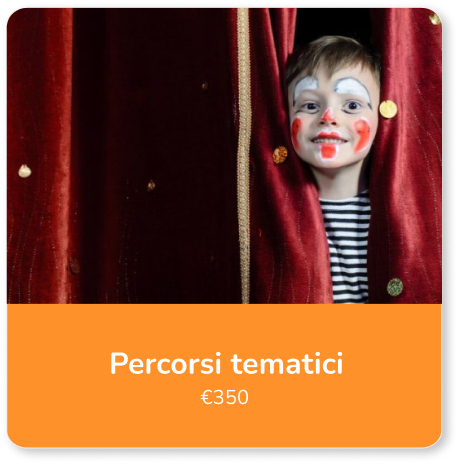
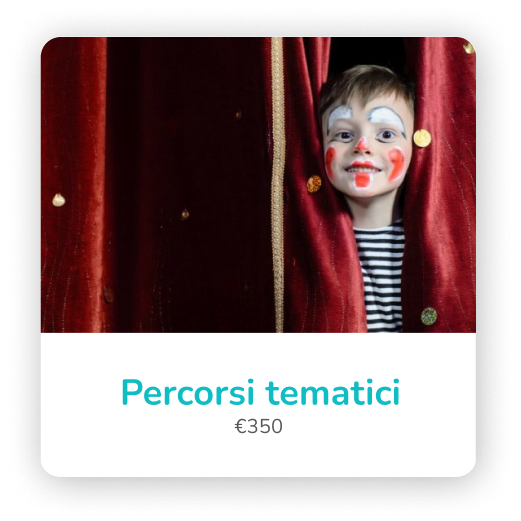
changes

diff --git a/index.html b/index.html
@@ -76,8 +76,8 @@
             delle scuole <br> elementari al mondo del teatro</h2>
             <br>
 
-          <h5>Sei un <a href="#teacher">insegnante</a>?</h5>
-          <h5>Sei un <a href="#actor">attore</a>?</h5>
+            <h5>Sei un <a href="#teacher">insegnante</a>?</h5>
+            <h5>Sei un <a href="#actor">attore</a>?</h5>
 
           <a href="percorsi.html" class="btn-get-started scrollto">Acquista un percorso</a>
         </div>
@@ -184,7 +184,7 @@
         <div class="parallax" id="parallax">
           <div class="row">
             <!-- ======= Immagine ======= -->
-            <div class="col-lg-6 order-1 order-lg-1" data-aos="fade-up" data-aos-delay="200">
+            <div class="col-lg-6 order-1 order-lg-1 text-center" data-aos="fade-up" data-aos-delay="200">
               <img src="assets/img/home/insegnante.png" alt="immagine sezione insegnante" class="img-fluid">
             </div>
             <!-- ======= Testo ======= -->
@@ -221,7 +221,7 @@
               <a href="attori.html" class="teacher-btn-1">Entra a far parte del team!</a>
             </div>
             <!-- ======= Immagine ======= -->
-            <div class="col-lg-6 order-1 order-lg-2" data-aos="fade-up" data-aos-delay="200">
+            <div class="col-lg-6 order-1 order-lg-2 text-center" data-aos="fade-up" data-aos-delay="200">
               <img src="assets/img/home/attore.png" alt="immagine sezione attore" class="img-fluid attori">
             </div>
           </div>
@@ -240,23 +240,17 @@
           <h2>Scegli l'opzione più adatta a te!</h2>
         </div>
 
-        <div class="row">
-          <div class="col-md-6 d-flex justify-content-center">
-            <div class="member" data-aos="fade-up" data-aos-delay="100">
-              <div>
-                <a href="percorsi.html" class="pacchetto1"><img src="assets/img/home/percorsi-tematici.png" alt="Percorsi tematici"></a>
-              </div>
-            </div>
+        <div id="actor" class="row">
+          <!-- ======= Percorsi laboratoriali ======= -->
+          <div class="col-lg-6 order-1 order-lg-1 text-center" data-aos="fade-up" data-aos-delay="100">
+            <a href="percorsi.html"><img src="assets/img/home/percorsi-tematici.png" alt="percorsi tematici" class="img-fluid pacchetto1"></a>
           </div>
-
-          <div class="col-md-6 d-flex justify-content-center">
-            <div class="member" data-aos="fade-up" data-aos-delay="200">
-              <div>
-                <a href="workshop.html" class="pacchetto1"><img src="assets/img/home/workshop.png" alt="Workshop"></a>
-              </div>
-            </div>
+          <!-- ======= Workshop ======= -->
+          <div class="col-lg-6 order-2 order-lg-2 text-center" data-aos="fade-up" data-aos-delay="200">
+            <a href="workshop.html"><img src="assets/img/home/workshop.png" alt="workshop" class="img-fluid pacchetto1"></a>
           </div>
         </div>
+
       </div>
     </section><!-- Acquista Section -->
 

diff --git a/assets/css/style.css b/assets/css/style.css
@@ -598,10 +598,13 @@ h1, h2, h3, h4, h5, h6 {
 --------------------------------------------------------------*/
 .services{
   width: 100%;
-  background: url("../img/home/acquista-sfondo.png") top center no-repeat;
+  background: url("../img/home/acquista-sfondo.jpg") top center no-repeat;
   background-size: cover;
   position: relative;
-  padding: 100px 0;
+  padding: 80px 0;
+}
+.services h2{
+  color: #ffffff;
 }
 .pacchetto1:hover{
   opacity: 0.8;
